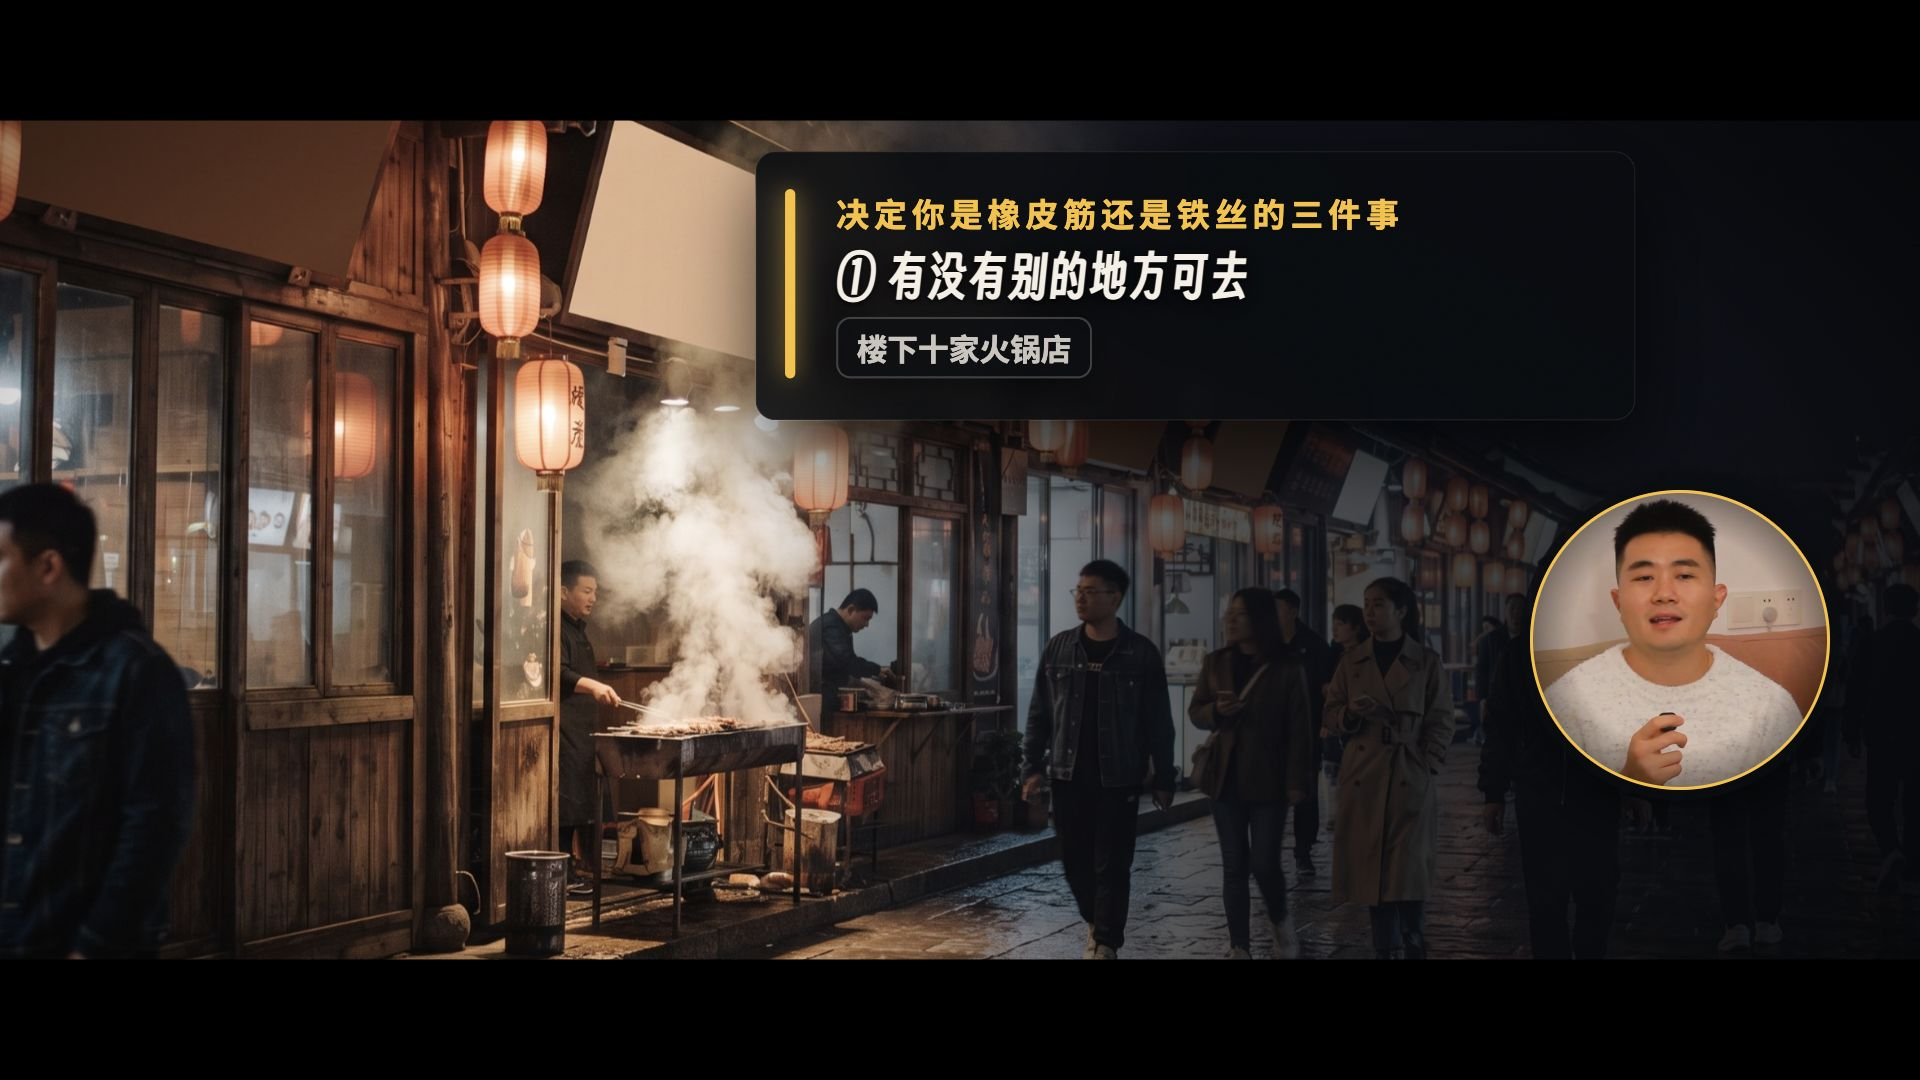
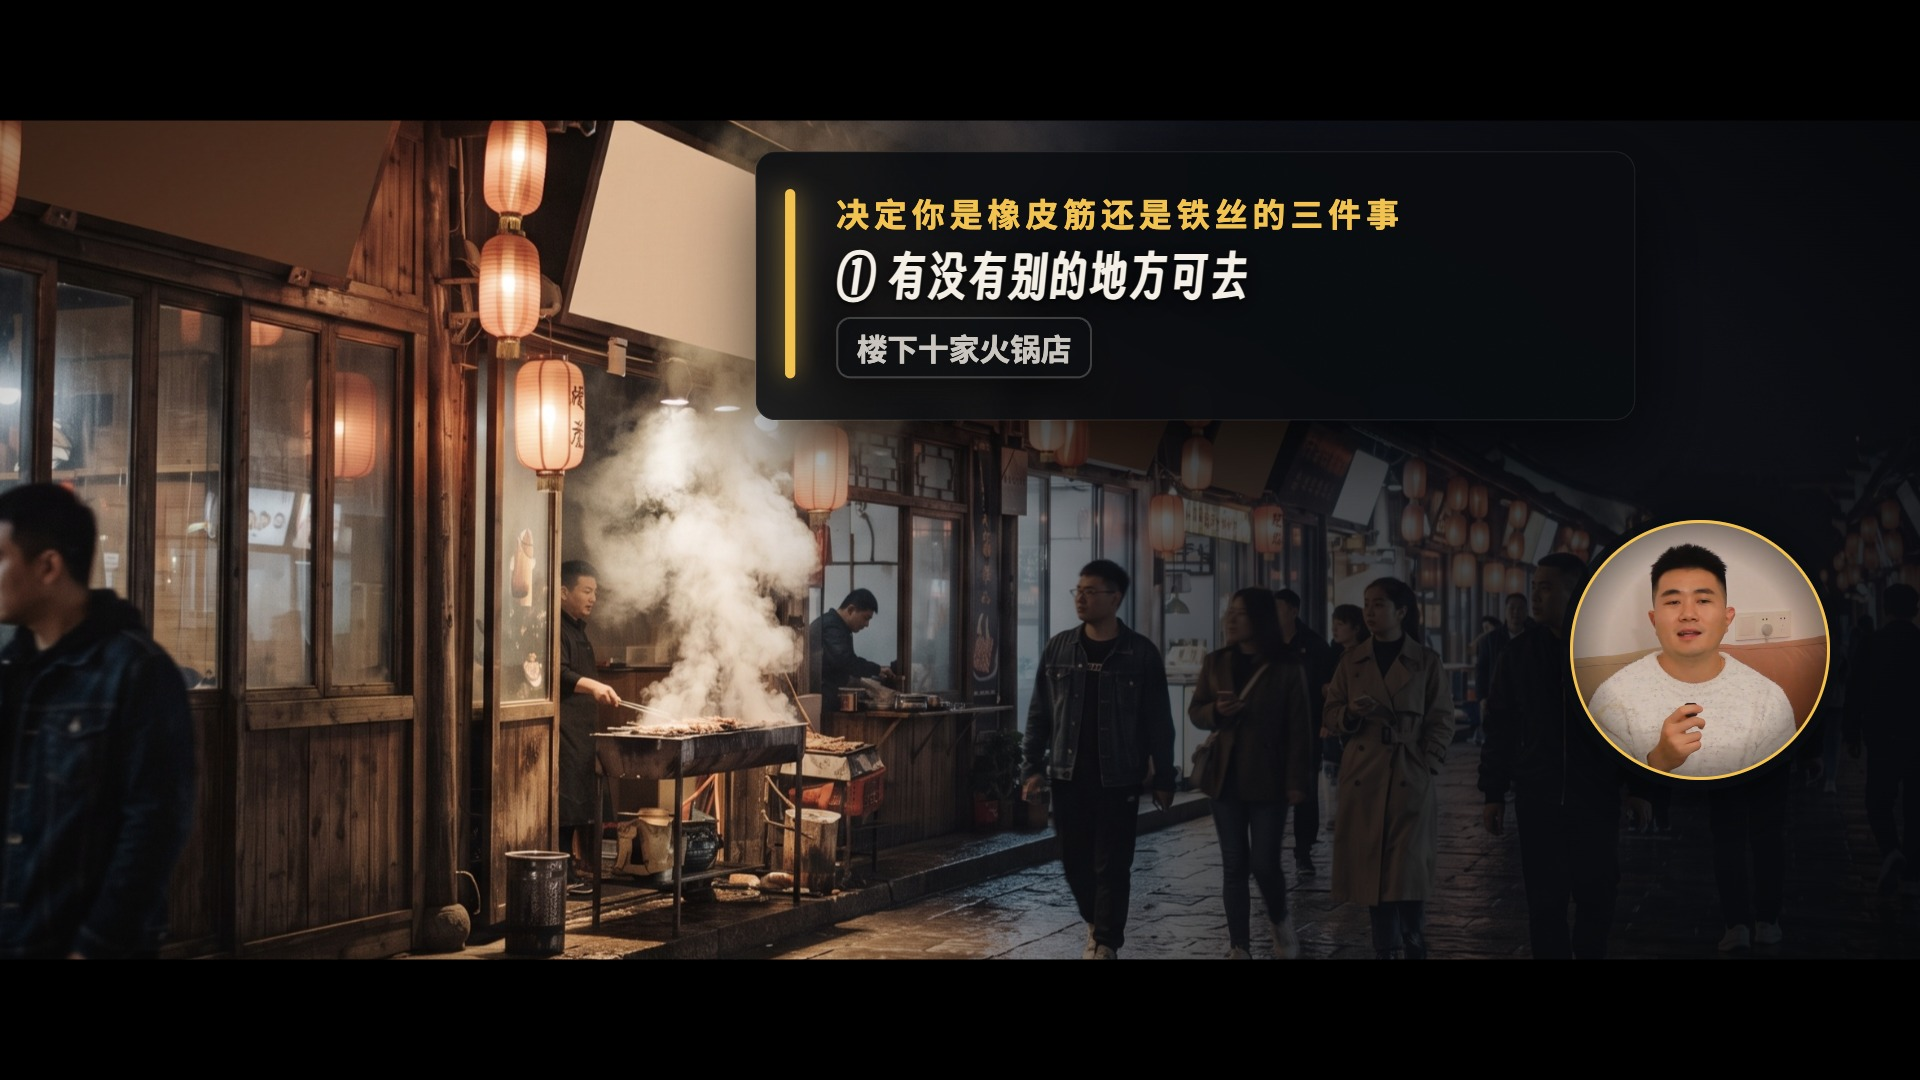
ep8 小圆取景缩小：bubbleView 0.72 / bubbleFaceAt 0.34，头顶不再被圆切；四段出镜版重渲（15 分钟），文档注明 bubbleView 取值依据

Changed region(s): [[0.7812, 0.4583, 0.9688, 0.7333]]

diff --git a/工具/video-broll-maker/references/photo-json.md b/工具/video-broll-maker/references/photo-json.md
@@ -163,8 +163,8 @@ BL  BC  BR     BW
   "src": "ai03/aroll.mp4",          // public/ 下。必须是和 srt 同一条时间线的粗剪成片，从 0 秒对齐，30fps；放进来的是 ffmpeg 转好的 1080p 静音代理（用户原片可以是 4K，见 SKILL.md 3b）。一律静音（人声用户在剪映放原音轨）
   "idle": "bubble",                 // cue 之外的状态：bubble 小圆 | hide 不出现
   "face": [0.5, 0.42],              // 脸在 A-roll 画面里的位置（比例）。bubble / half 态以它为中心裁
-  "bubbleView": 0.62,               // 小圆直径装下 A-roll 画面高度的多少：0.62 ≈ 头到胸口的半身（默认）；0.31 = 只有一张脸（10-29 旧版）
-  "bubbleFaceAt": 0.32,             // 脸放在圆里从上往下的位置（默认 0.32，留出下面的肩膀和身子）
+  "bubbleView": 0.62,               // 小圆直径装下 A-roll 画面高度的多少：0.62 ≈ 头到胸口的半身（默认）；0.31 = 只有一张脸（10-29 旧版）。头顶离画面上沿 ≤ 20% 的实拍（ep8）用 0.72，不然头发被圆切掉
+  "bubbleFaceAt": 0.32,             // 脸放在圆里从上往下的位置（默认 0.32，留出下面的肩膀和身子）；bubbleView 调大时同步到 0.34 左右
   "halfView": 0.8,                  // 半屏卡只显示 A-roll 画面上面这一截（默认 1）。A-roll 底部烧了字幕时设 0.8 裁掉
   "cues": [                         // at 是口播稿行号 [起, 止)，和场景表同口径
     {"at": [0, 7],     "mode": "full"},
